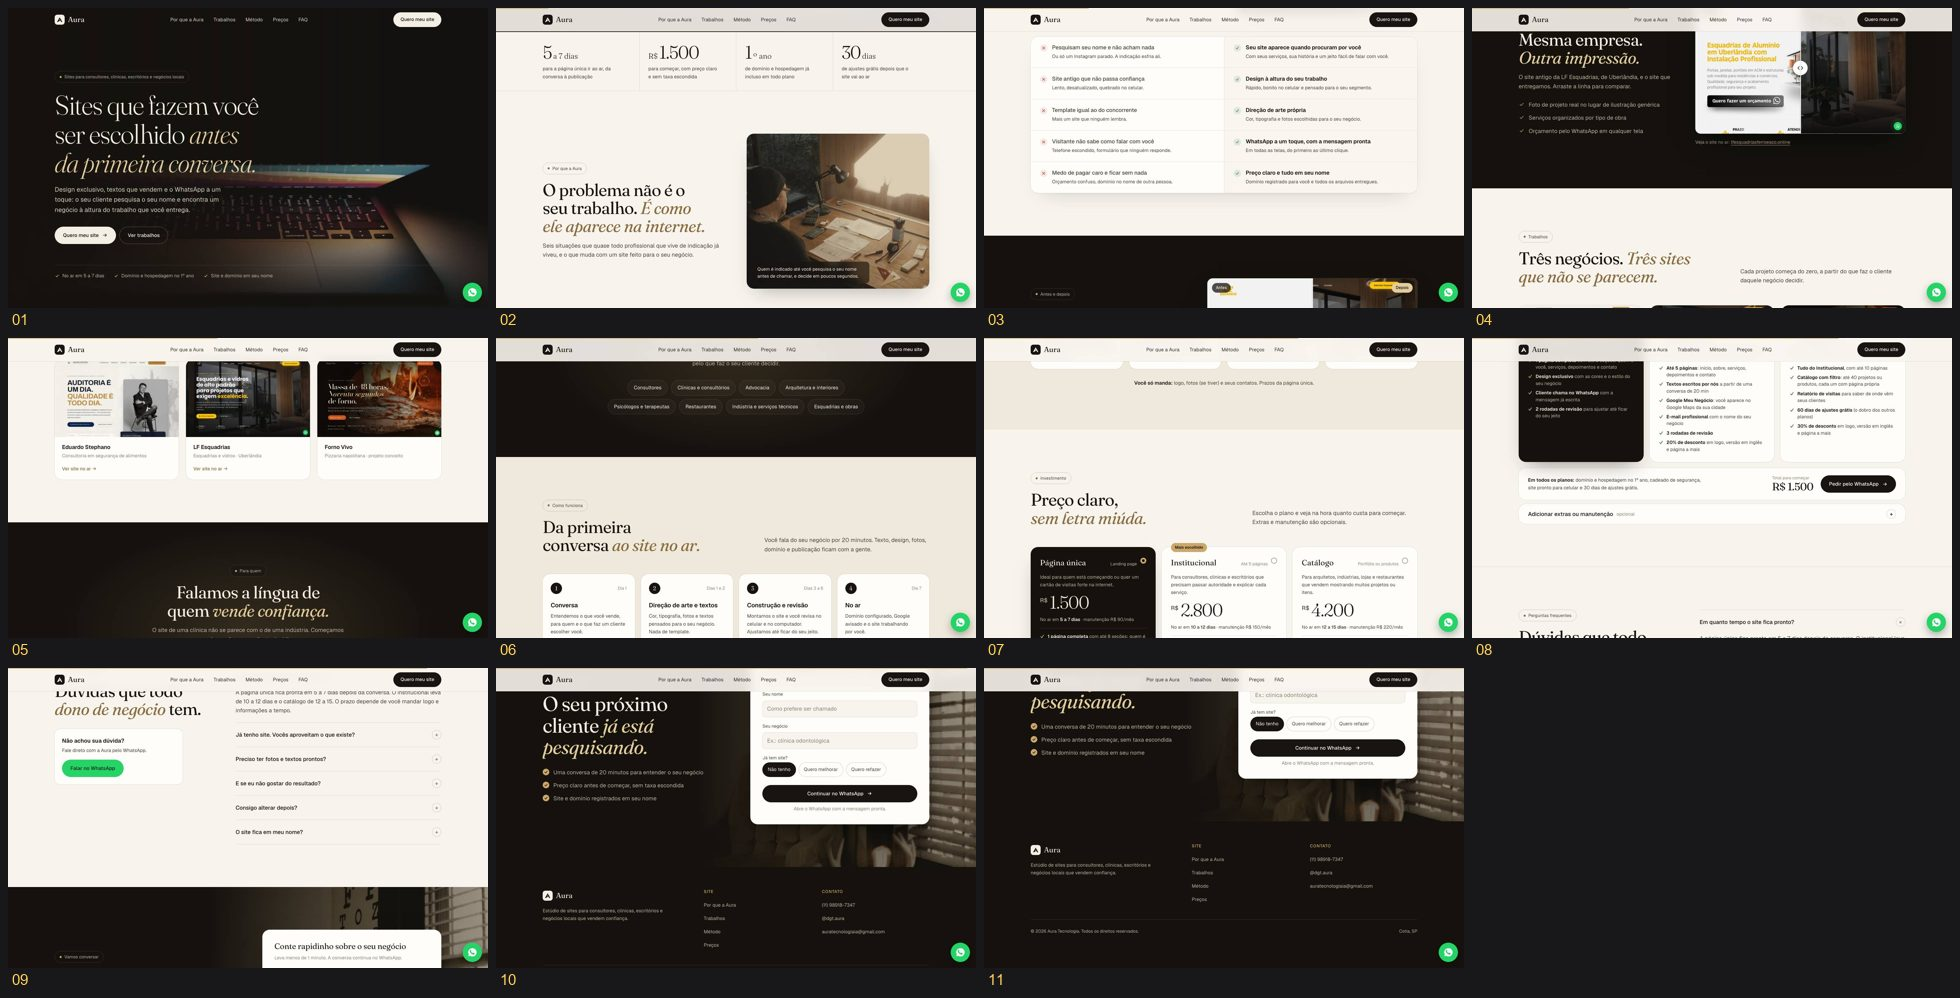
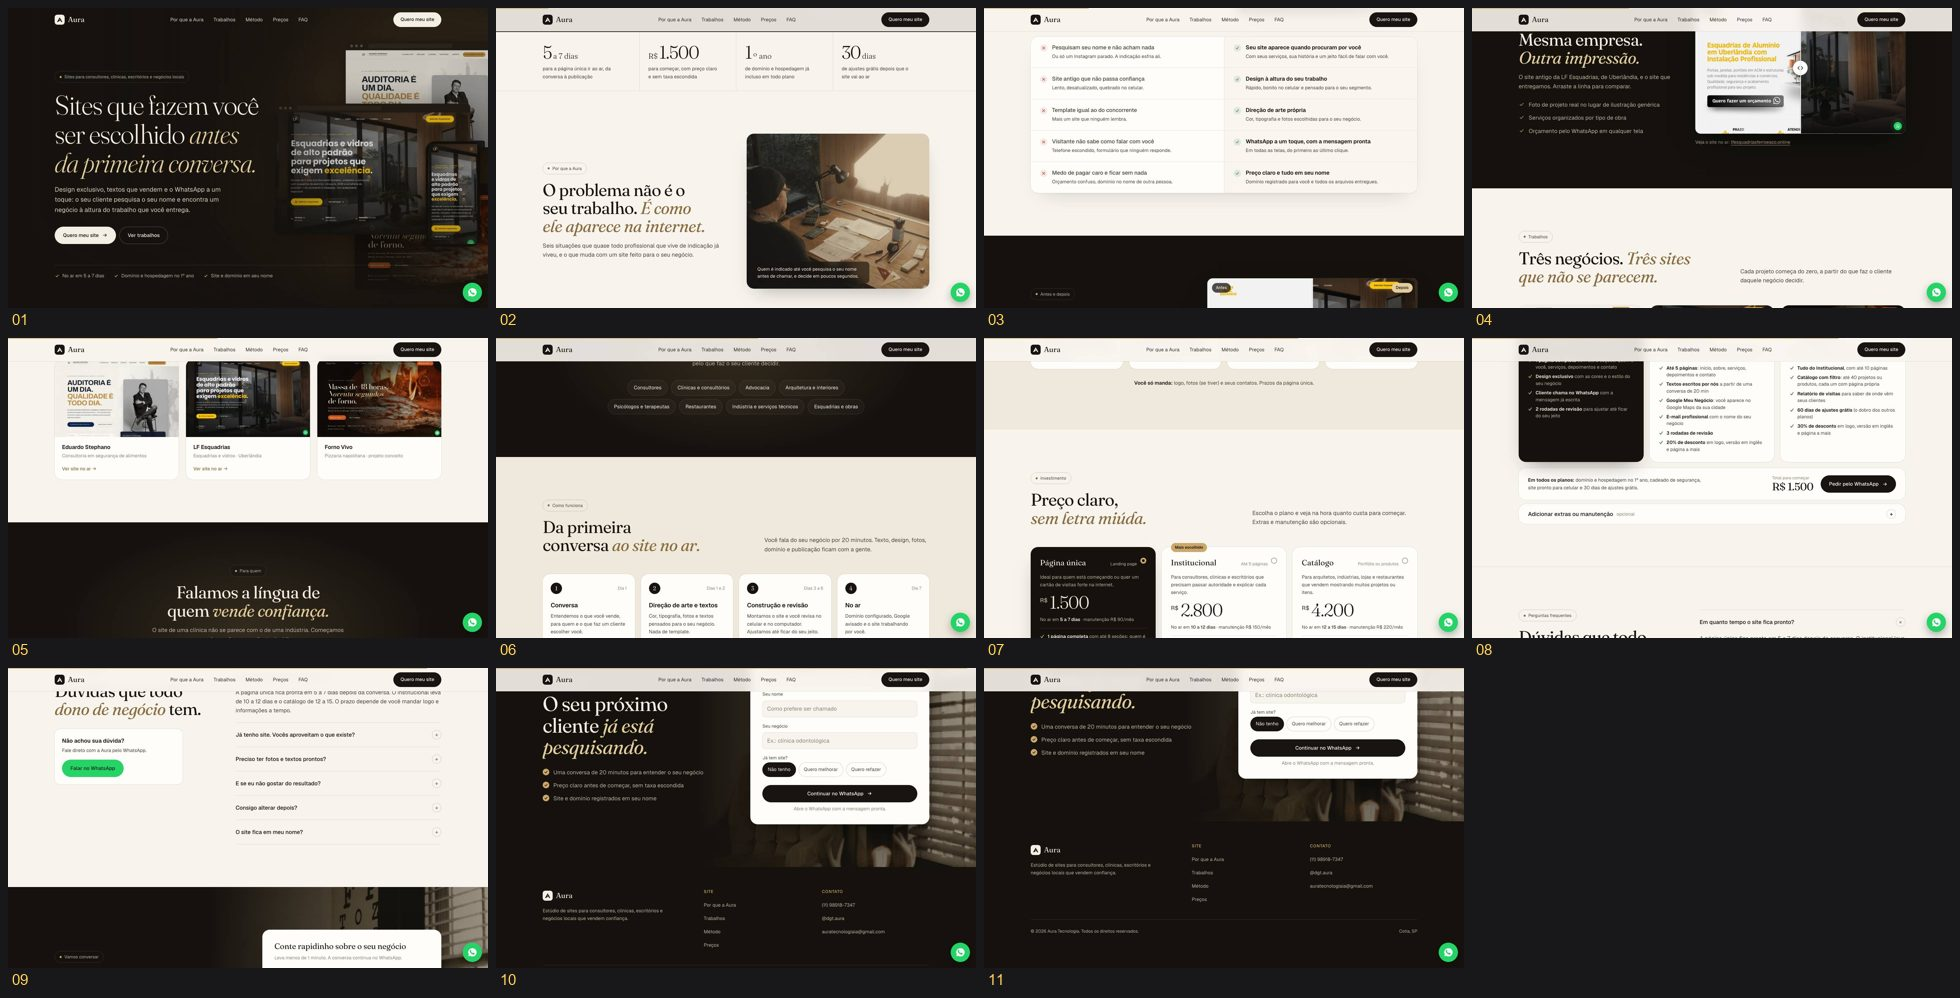
Topo com composição dos sites reais (LF, Eduardo, Forno Vivo) no lugar da foto do notebook

Changed region(s): [[0.0934, 0.0311, 0.249, 0.3106]]

diff --git a/index.html b/index.html
@@ -15,7 +15,7 @@
 <link rel="preconnect" href="https://fonts.gstatic.com" crossorigin>
 <link href="https://fonts.googleapis.com/css2?family=Fraunces:ital,opsz,wght@0,9..144,300..500;1,9..144,300..500&family=Geist:wght@400;500;600&display=swap" rel="stylesheet">
 <link rel="stylesheet" href="assets/fx.css">
-<link rel="preload" as="image" href="img/q_hero.webp" type="image/webp">
+<link rel="preload" as="image" href="img/q_hero2.webp" type="image/webp">
 <style>
 /* Mesmo sistema visual do agenciaaura.online: escuro quente + papel, bronze/dourado,
    Fraunces nos títulos (uma palavra em itálico dourado) e Geist no texto. */
@@ -92,8 +92,8 @@ section{padding-block:var(--pad);position:relative}
 /* hero */
 .hero{min-height:100vh;min-height:100svh;display:flex;flex-direction:column;justify-content:center;padding:130px 0 0;overflow:hidden;isolation:isolate}
 .hero-bg{position:absolute;inset:0;z-index:-1;margin:0}
-.hero-bg img{width:100%;height:100%;object-fit:cover;object-position:62% 75%;animation:hero-in 2.2s cubic-bezier(.16,1,.3,1) both}
-.hero-bg::after{content:'';position:absolute;inset:0;background:linear-gradient(90deg,rgba(21,18,14,.95) 0%,rgba(21,18,14,.75) 40%,rgba(21,18,14,.15) 78%),linear-gradient(0deg,rgba(21,18,14,.9) 0%,rgba(21,18,14,0) 30%)}
+.hero-bg img{width:100%;height:100%;object-fit:cover;object-position:100% 50%;animation:hero-in 2.2s cubic-bezier(.16,1,.3,1) both}
+.hero-bg::after{content:'';position:absolute;inset:0;background:linear-gradient(90deg,rgba(21,18,14,.96) 0%,rgba(21,18,14,.82) 38%,rgba(21,18,14,.1) 70%),linear-gradient(0deg,rgba(21,18,14,.9) 0%,rgba(21,18,14,0) 30%)}
 @keyframes hero-in{from{opacity:0;transform:scale(1.07)}}
 .hero>.wrap{width:100%}
 .hero h1{font-size:clamp(2.6rem,1.5rem + 4vw,5.2rem);max-width:12em;margin:24px 0 22px;font-weight:300}
@@ -102,7 +102,7 @@ section{padding-block:var(--pad);position:relative}
 .checks{display:flex;flex-wrap:wrap;gap:10px 28px;margin-top:clamp(48px,7vh,80px);padding:20px 0 26px;border-top:1px solid var(--on-dark-line);font-size:.9rem;color:var(--on-dark2)}
 .checks span{display:flex;align-items:center;gap:8px}
 .checks svg{width:15px;height:15px;color:var(--gold)}
-@media(max-width:700px){.hero{justify-content:flex-end}.hero-bg img{object-position:60% 50%}.hero-bg::after{background:linear-gradient(180deg,rgba(21,18,14,.3) 0%,rgba(21,18,14,.8) 45%,rgba(21,18,14,.97) 100%)}}
+@media(max-width:700px){.hero{justify-content:flex-end}.hero-bg img{object-position:86% 0%;height:62%}.hero-bg::after{background:linear-gradient(180deg,rgba(21,18,14,.35) 0%,rgba(21,18,14,.9) 34%,rgba(21,18,14,.97) 100%)}}
 
 /* números */
 .nums{padding-block:0;border-bottom:1px solid var(--line)}
@@ -308,7 +308,7 @@ footer{background:var(--dark);color:var(--on-dark2);padding-block:64px 100px;fon
 
 <main id="topo">
   <header class="hero dark">
-    <picture class="hero-bg" aria-hidden="true"><source srcset="img/q_hero.webp" type="image/webp"><img src="img/q_hero.jpg" width="2000" height="1125" alt="" fetchpriority="high"></picture>
+    <picture class="hero-bg" aria-hidden="true"><source srcset="img/q_hero2.webp" type="image/webp"><img src="img/q_hero2.jpg" width="2400" height="1350" alt="" fetchpriority="high"></picture>
     <div class="wrap">
       <span class="pill" data-reveal>Sites para consultores, clínicas, escritórios e negócios locais</span>
       <h1 data-split>Sites que fazem você ser escolhido <em>antes da primeira conversa.</em></h1>
